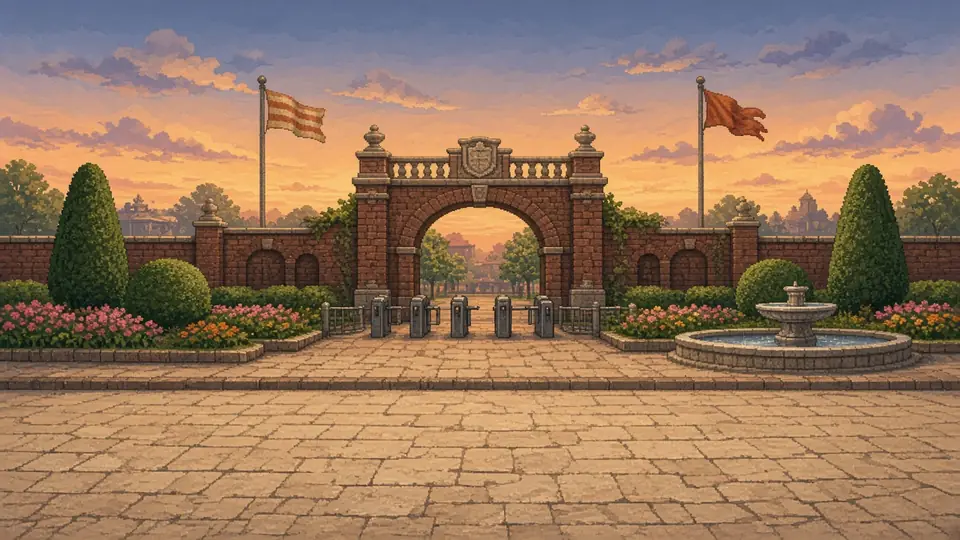
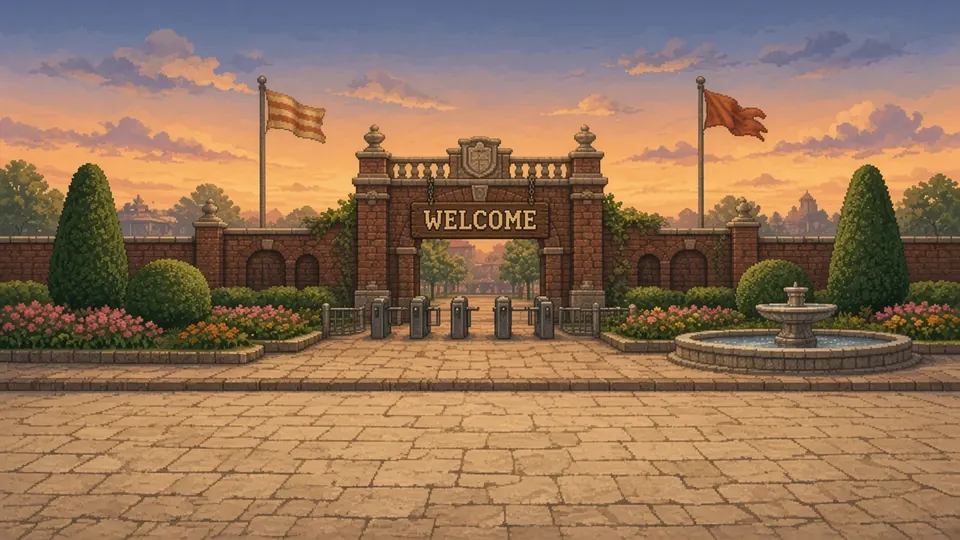
Entrance Plaza: WELCOME sign painted into the plate; remove code-drawn gate sign

diff --git a/js/bgdraw.js b/js/bgdraw.js
@@ -24,22 +24,6 @@ const LM = {
     g.fillStyle = 'rgba(8,10,16,0.75)'; g.fillText(t, x + 0.4, y + 3.4); g.fillStyle = 'rgba(214,206,170,0.92)'; g.fillText(t, x, y + 2.8); g.restore(); },
   sign(x, gy, t, bg, fg) { const w = t.length * 6 + 10; R(x - w / 2 + 3, gy - 14, 2, 14, '#2a2418'); R(x + w / 2 - 5, gy - 14, 2, 14, '#2a2418'); box(x - w / 2, gy - 30, w, 16, bg); R(x - w / 2 + 2, gy - 28, w - 4, 1, sh(fg, 0.55)); text(t, x, gy - 16, fg); },
   hsign(x, gy, t, bg, fg) { const w = t.length * 6 + 12, y = gy - 50; R(x - w / 2, y - 8, w, 2, '#1a1a20'); R(x - w / 2 + 4, y - 6, 1, 6, '#6a6a72'); R(x + w / 2 - 5, y - 6, 1, 6, '#6a6a72'); box(x - w / 2, y, w, 16, bg); R(x - w / 2 + 2, y + 2, w - 4, 1, sh(fg, 0.55)); text(t, x, y + 14, fg); },
-  /** Painted-style hanging gate sign, all in code so it matches the pixel HUD font: a dark plank board with nails, hung by two short iron chains from eye-hooks on the arch's stone ledge. x = board centre, centred on the arch. */
-  gatesign(x, gy, t) {
-    const w = t.length * 6 + 14, h = 14, bx = Math.round(x - w / 2), by = 71, ledge = 61;
-    for (const cx of [bx + 6, bx + w - 8]) {
-      R(cx, ledge - 1, 2, 2, '#9a9aa6'); R(cx, ledge + 1, 2, 1, '#2a2a32'); // eye-hook plate on the ledge
-      for (let yy = ledge + 2, k = 0; yy < by; yy += 2, k++) { R(cx, yy, 2, 2, k % 2 ? '#4a4a54' : '#a4a4b0'); R(cx + 1, yy + 1, 1, 1, '#1a1a20'); } // chain links
-    }
-    R(bx + 2, by + h, w - 2, 2, 'rgba(0,0,0,.35)'); // soft shadow on the wall under the board
-    R(bx - 1, by - 1, w + 2, h + 2, '#1a0e06'); R(bx, by, w, h, '#6e4220'); // outline + wood
-    R(bx, by, w, 1, '#a86a38'); R(bx, by + h - 1, w, 1, '#3e2210'); R(bx, by + 1, w, 1, '#8a5428'); // top highlight, bottom shade
-    R(bx, by + 7, w, 1, '#4e2e14'); // plank seam
-    for (let i = 0; i < 5; i++) R(bx + 3 + ((i * 11) % (w - 8)), by + 3 + (i * 5) % 9, 5, 1, '#5a3418'); // wood grain flecks
-    R(bx + 1, by + 1, 1, h - 2, '#8a5428'); R(bx + w - 2, by + 1, 1, h - 2, '#4a2a12'); // side bevels
-    for (const [nx, ny] of [[bx + 2, by + 2], [bx + w - 3, by + 2], [bx + 2, by + h - 3], [bx + w - 3, by + h - 3]]) { R(nx, ny, 1, 1, '#d6d0c0'); } // nail heads
-    drawText(g, t, x, by + 10, '#ffe9a0', 8, 'center', '#2a1408'); // same bitmap font as the HUD
-  },
   bush(x, gy, w, c) { for (let i = 0; i < 4; i++) blob(x + (i - 1.5) * w / 4, gy - 5 - (i % 2) * 3, w / 3.2, 8, '#0c1a10'); for (let i = 0; i < 4; i++) { blob(x + (i - 1.5) * w / 4, gy - 6 - (i % 2) * 3, w / 3.4, 7, c); blob(x + (i - 1.5) * w / 4 - 2, gy - 9 - (i % 2) * 3, w / 7, 3, sh(c, 1.5)); } },
   tree(x, gy, h) { R(x - 3, gy - h, 6, h, '#2a1c12'); R(x - 3, gy - h, 2, h, '#4a3220'); for (const [dx, dy, r] of [[0, 0, 20], [-16, 8, 15], [16, 8, 15], [-6, -8, 14], [8, -6, 13]]) blob(x + dx, gy - h + dy, r, r * 0.8, '#10281a'); for (const [dx, dy, r] of [[-4, -3, 10], [10, 4, 7], [-14, 6, 6]]) blob(x + dx, gy - h + dy, r, r * 0.7, '#1e4a2a'); },
   stand(x, gy, c1, c2, t) { box(x, gy - 22, 40, 22, '#3a2c22'); R(x + 3, gy - 18, 34, 8, '#14100c'); R(x + 3, gy - 10, 34, 3, '#7a5a38'); for (let i = 0; i < 8; i++) R(x - 2 + i * 5, gy - 34, 5, 10, i % 2 ? c2 : c1); R(x - 2, gy - 25, 44, 1, '#10121a'); R(x - 2, gy - 35, 44, 1, '#10121a'); text(t, x + 20, gy - 38, '#ffe9a0'); },

diff --git a/tests/props.test.js b/tests/props.test.js
@@ -16,9 +16,9 @@ test('every sprite rect is sane and sign/plaque faces sit inside their sprite', 
 test('every code-drawn prop kind used by the screens has a painted sprite (except water/bus/lights which stay code)', () => {
   const need = { sign: ['sign_s', 'sign_m', 'sign_l'], hsign: ['hsign'], bush: ['bush_a'], tree: ['tree'], stand: ['stand_a', 'stand_b'], bench: ['bench'], lamp: ['lamp'], cone: ['cone'], dumpster: ['dumpster'], hydrant: ['hydrant'], pipe: ['pipe'], planter: ['planter'], diner: ['diner'], girders: ['girders'], barrier: ['barrier'], plant: ['plant'], seal: ['seal'], cubicle: ['cubicle_a'], cooler: ['cooler'], door: ['door_a'], glass: ['glass'], table: ['table'], flag: ['flag'], cart: ['cart'], elevator: ['elevator'], curtain: ['curtain'], gatepost: ['gatepost'], sandbags: ['sandbags3', 'sandbags4'], jeep: ['jeep'], drums: ['drum_a', 'drum_b'], tent: ['tent'], tank: ['tank'], wire: ['wire'], bunker: ['bunker'], hq: ['hq'], fern: ['fern_a'], vines: ['vine_s', 'vine_m', 'vine_l'], rocks: ['rock_a'], pillar: ['pillar_t', 'pillar_s'], totem: ['totem'], glowflower: ['flower_a', 'flower_b'] };
   const kinds = new Set(); for (const k of Object.values(SCREENS)) for (const s of k.screens) for (const l of s.lm) kinds.add(l[0]);
-  for (const k of kinds) { if (k === 'bus' || k === 'ptext' || k === 'gatesign') continue; assert.ok(need[k], 'no sprite mapping for ' + k); for (const n of need[k]) assert.ok(meta[n], k + ' -> ' + n); }
+  for (const k of kinds) { if (k === 'bus' || k === 'ptext') continue; assert.ok(need[k], 'no sprite mapping for ' + k); for (const n of need[k]) assert.ok(meta[n], k + ' -> ' + n); }
 });
-test('the WELCOME hanging sign is a code-drawn sign centred on the arch', () => { const z = SCREENS.zoo.screens[0].lm.find(l => l[0] === 'gatesign'); assert.equal(z[2], 'WELCOME'); });
+test('the WELCOME sign is painted into the Entrance Plaza plate (no code-drawn sign on top)', () => { const z = SCREENS.zoo.screens[0]; assert.equal(z.plate, 'zoo-plaza'); assert.ok(!z.lm.some(l => /sign/.test(l[0]))); });
 test('mirrored plate reuse: no two neighbouring screens show the same plate image (flip counts as the same image)', () => {
   for (const [kind, S] of Object.entries(SCREENS)) for (let i = 1; i < S.screens.length; i++) { const a = S.screens[i - 1], b = S.screens[i]; if (a.plate && b.plate) assert.notEqual(a.plate, b.plate, kind + ' ' + i); }
 });

diff --git a/js/bgscreens.js b/js/bgscreens.js
@@ -23,7 +23,7 @@ export const SCREENS = {
   zoo: {
     tiles: [0, 1, 2, 3, 0, 1, 2, 3, 0],
     screens: [
-      { name: 'Entrance Plaza', plate: 'zoo-plaza', top: ID, bot: ID, lm: [['gatesign', 160, 'WELCOME']], lights: [] },
+      { name: 'Entrance Plaza', plate: 'zoo-plaza', top: ID, bot: ID, lm: [], lights: [] },
       { name: 'Food Court', plate: 'zoo-foodcourt', top: rgb(255, 232, 208), bot: rgb(255, 238, 218), warm: [255, 150, 40, 0.06], lm: [['bench', 250]], lights: [[60, 62, 26, [255, 190, 90], 1], [170, 62, 26, [255, 190, 90], 1]] },
       { name: 'Lion House', plate: 'zoo-lion', top: rgb(228, 196, 232), bot: rgb(238, 224, 236), lm: [['bench', 236]], lights: [], },
       { name: 'Primate World', plate: 'zoo-primate', top: rgb(190, 184, 232), bot: rgb(214, 214, 240), stars: 0.35, lm: [], lights: [] },
